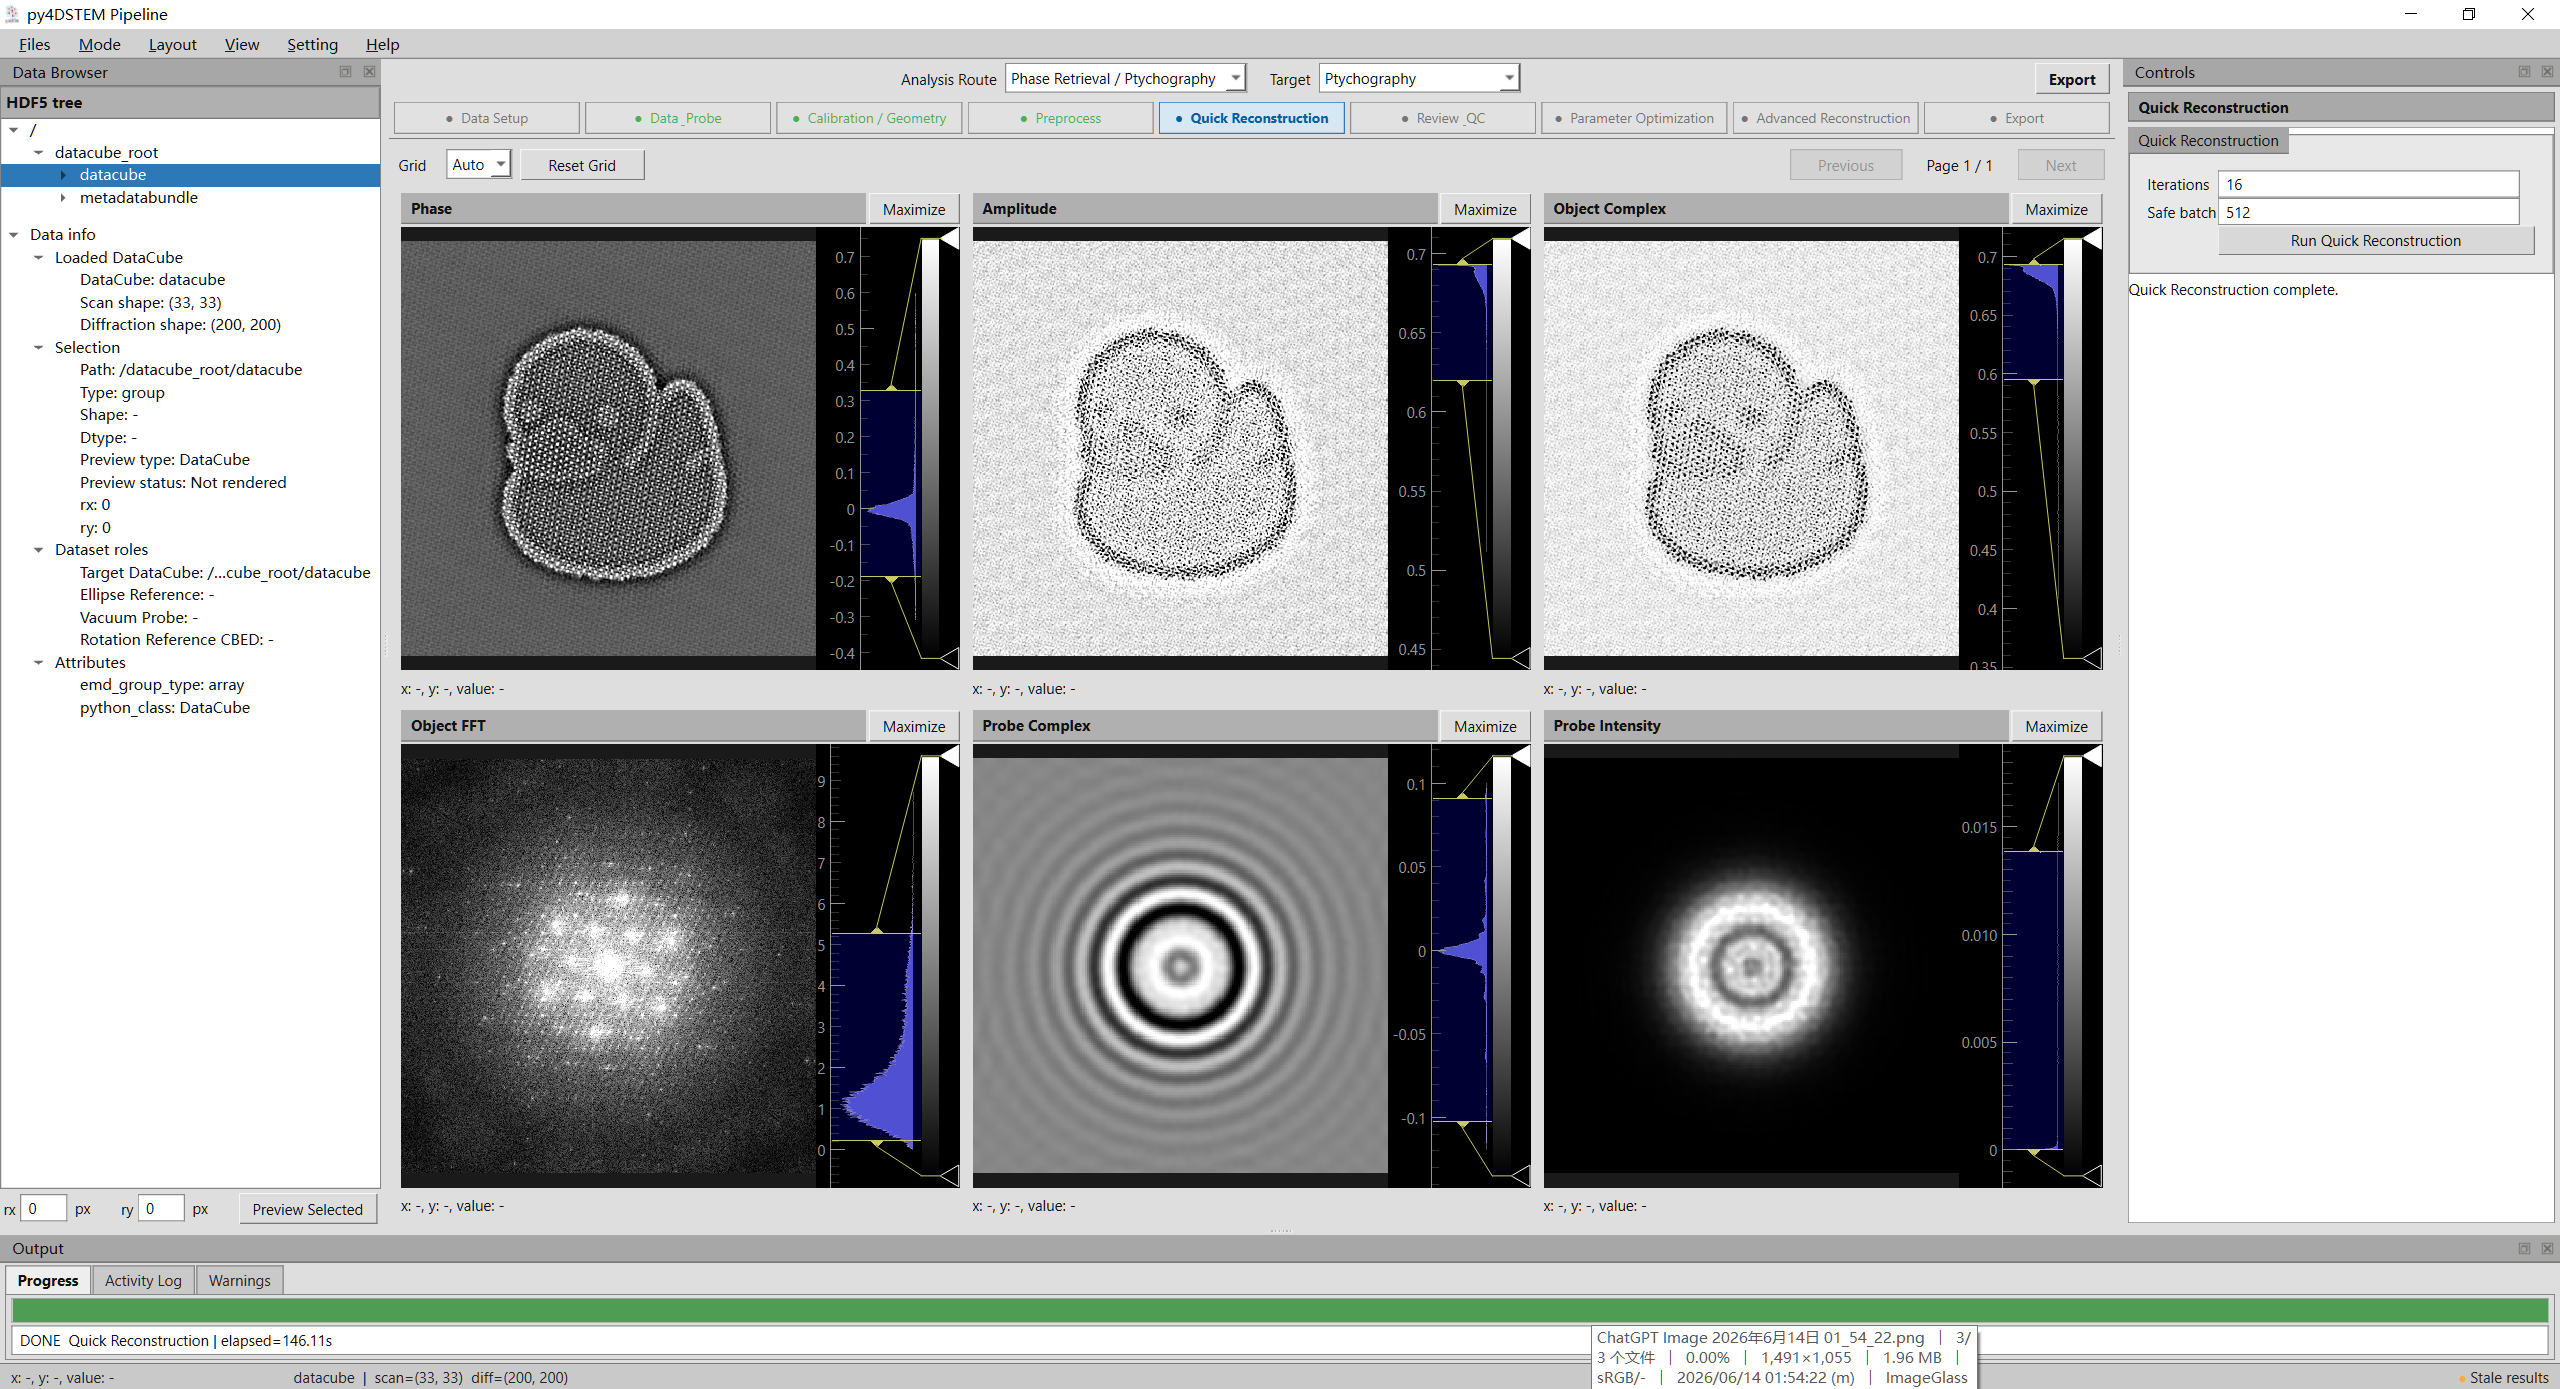
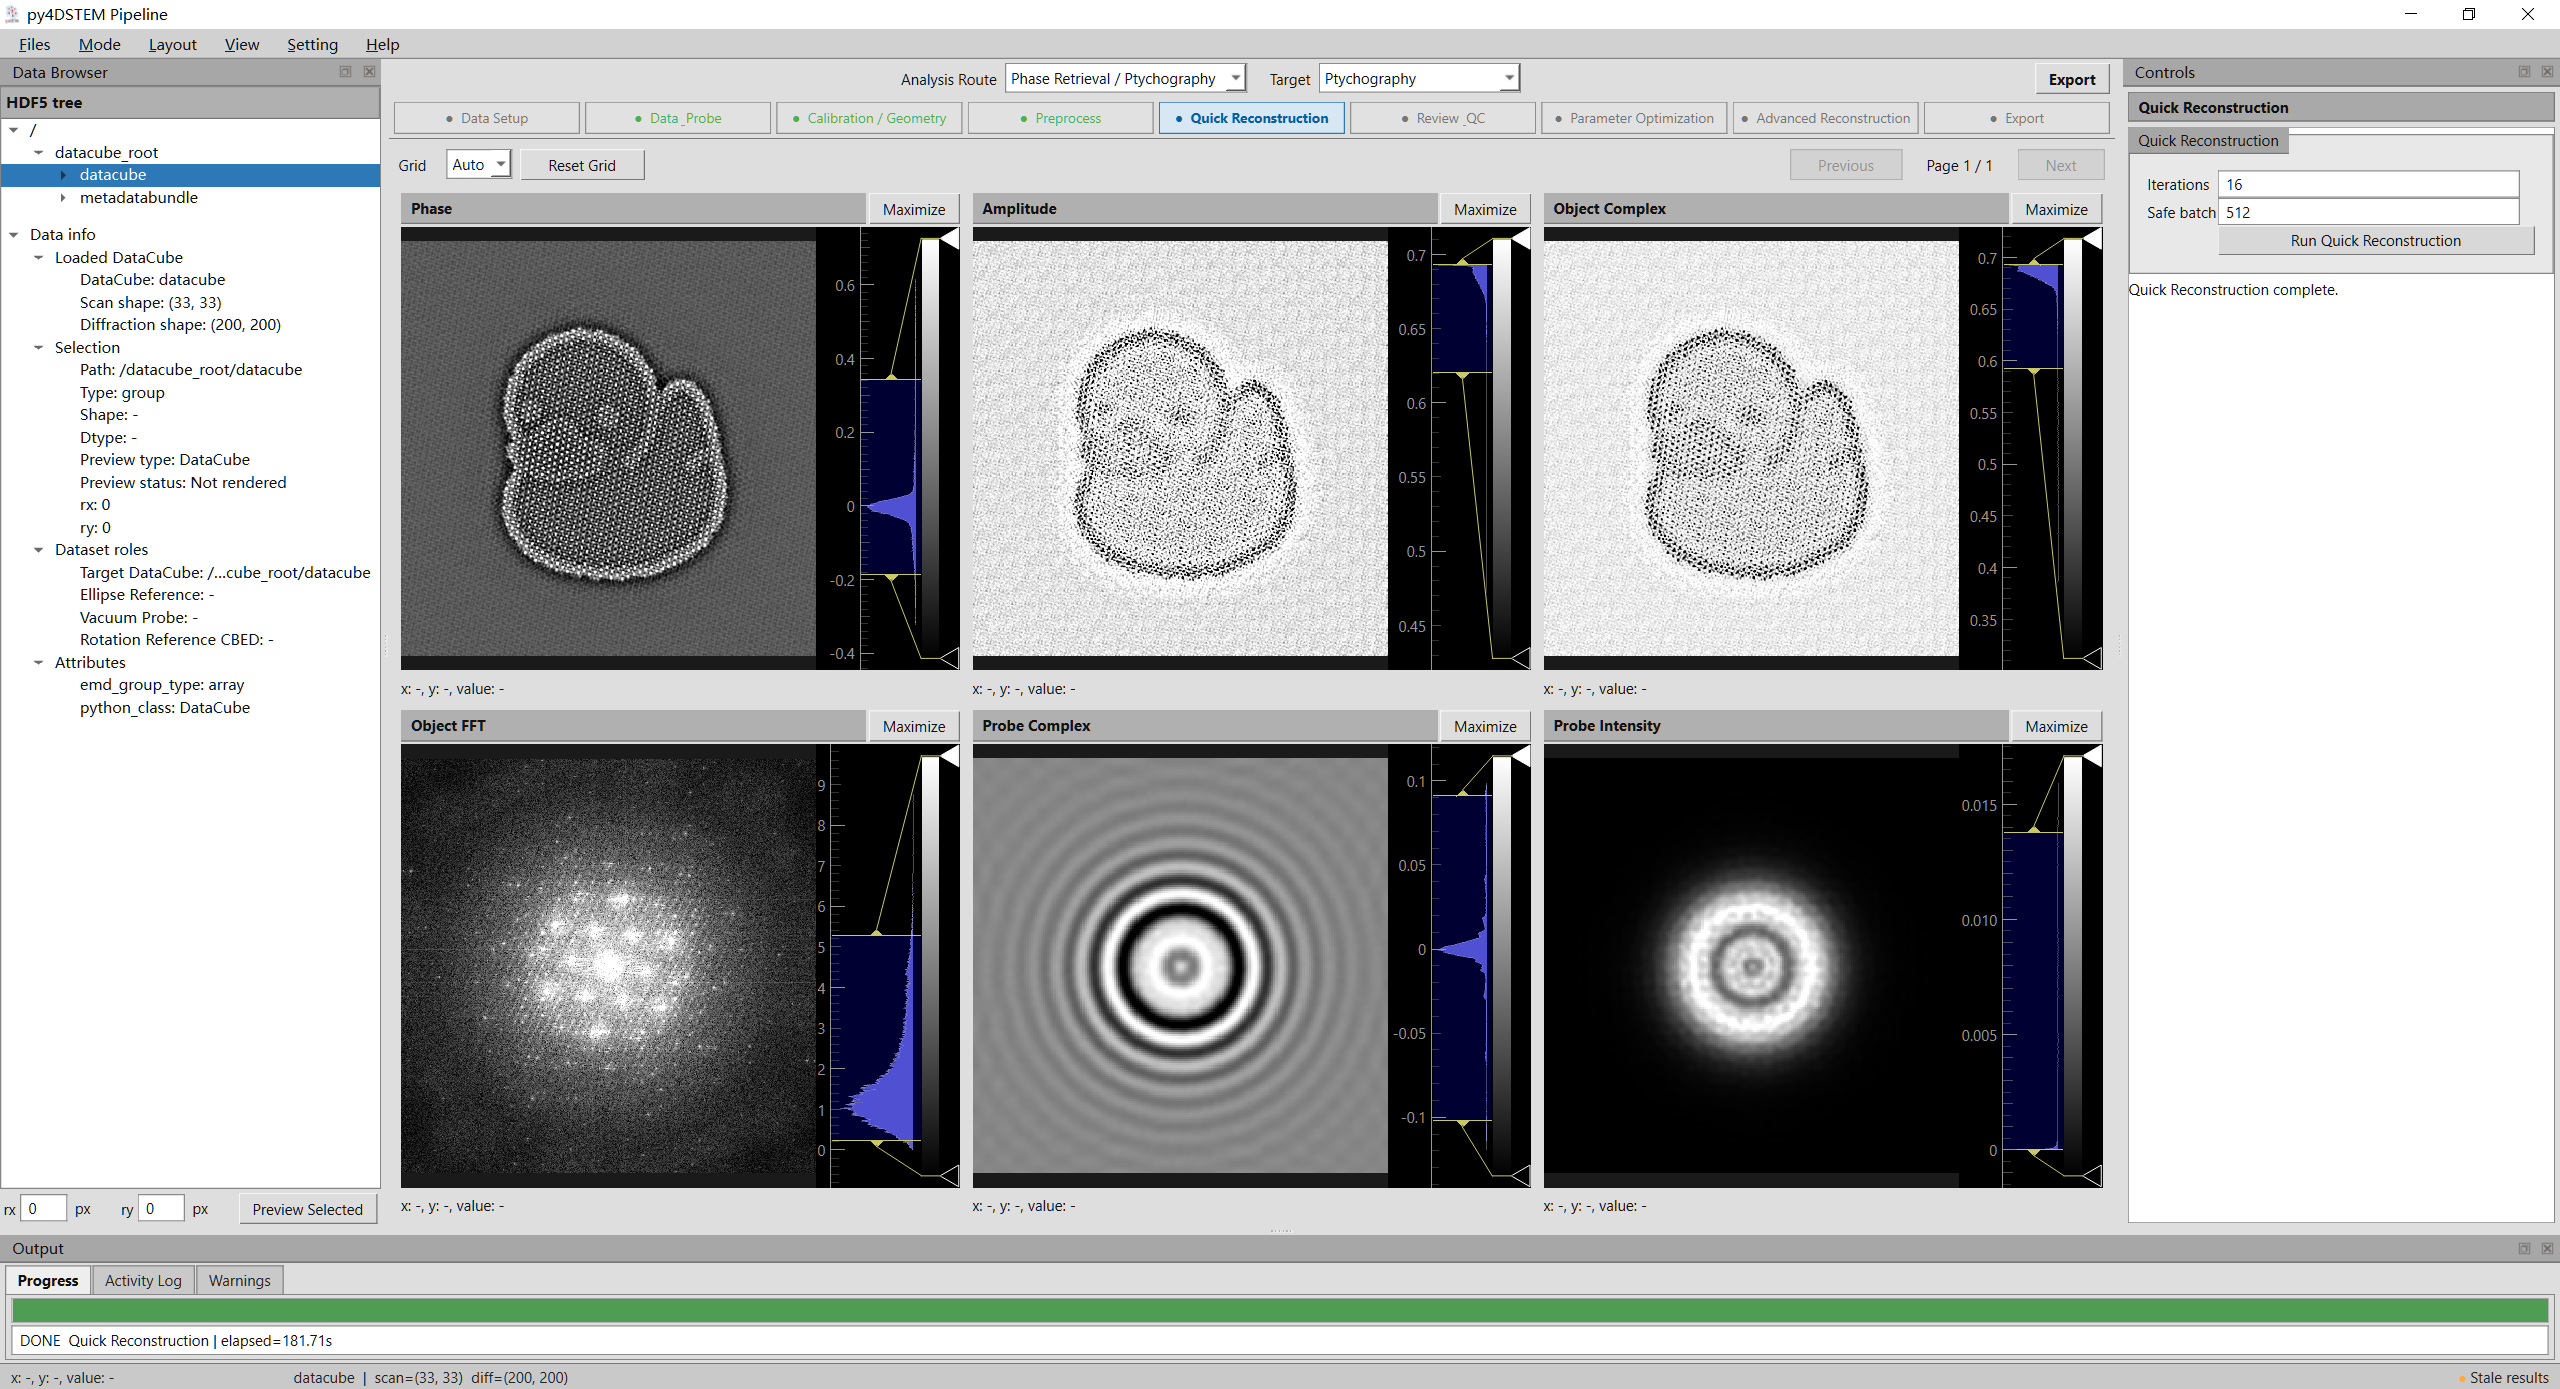
Replace ptychography screenshot and expand README gallery

diff --git a/README.md b/README.md
@@ -61,6 +61,46 @@ directly to Advanced Reconstruction.
 Detailed route notes and screenshots are available in
 [docs/WORKFLOWS.md](docs/WORKFLOWS.md).
 
+## Interface Gallery
+
+### Data Setup
+
+The Data Browser keeps HDF5 navigation lazy, while **Show Data** activates the
+selected DataCube and prepares it for downstream workflows.
+
+![Data setup and lazy DataCube activation](docs/ptychography%20data%20setup.png)
+
+### Ptychography
+
+Quick Reconstruction provides an inexpensive diagnostic pass before QC.
+Advanced Reconstruction retains the formal result after QC acceptance and
+optional parameter optimization.
+
+| Quick Reconstruction | Advanced Reconstruction |
+| --- | --- |
+| ![Ptychography quick reconstruction](docs/ptychography%20quick%20reconstruction.png) | ![Ptychography advanced reconstruction](docs/ptychography%20advanced%20reconstruction.png) |
+
+### DPC / CoM
+
+| CoM Preprocessing And Review | Integrated Reconstruction |
+| --- | --- |
+| ![CoM preprocessing and review](docs/Com%20Prerocessing%20review.png) | ![DPC integrated reconstruction](docs/integrated%20reconstruction.png) |
+
+### Strain Mapping
+
+| Calibration | Strain Analysis |
+| --- | --- |
+| ![Strain calibration](docs/strain%20calibration.png) | ![Strain analysis](docs/strain%20analysis.png) |
+
+### Export
+
+Registered results can be exported through the compact Export controls,
+including batch CSV output for numerical inspection.
+
+| Export Controls | Exported CSV Results |
+| --- | --- |
+| ![Export controls](docs/data%20export.png) | ![Exported CSV results](docs/data%20csv.png) |
+
 ### Shared Infrastructure
 - **Industrial light theme** by default, with a dark instrument theme available from the View menu
 - Centralized `app/theme.py` color constants and per-widget QSS (`theme.qss` / `theme_light.qss`) applied globally via `QApplication.setStyleSheet()`

diff --git a/docs/WORKFLOWS.md b/docs/WORKFLOWS.md
@@ -38,6 +38,8 @@ Probe modes are transferred directly to Advanced Reconstruction. The optimized
 value is a self-consistency candidate, not proof that it is the physically
 correct parameter.
 
+![Ptychography advanced reconstruction](ptychography%20advanced%20reconstruction.png)
+
 ## DPC / CoM
 
 Review the measured and fitted CoM fields, accept preprocessing, then run the
@@ -57,6 +59,15 @@ the final strain map.
 ![Strain calibration](strain%20calibration.png)
 
 ![Strain analysis](strain%20analysis.png)
+
+## Export
+
+Use the final Export route to export registered results, write numerical arrays
+to CSV, save the project state, or generate a report.
+
+![Export controls](data%20export.png)
+
+![Exported CSV results](data%20csv.png)
 
 ## Performance And Safety
 
